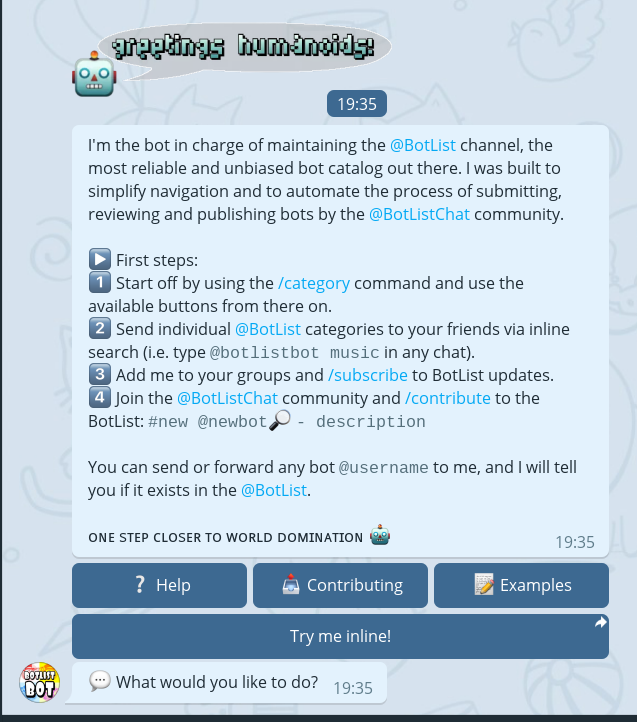
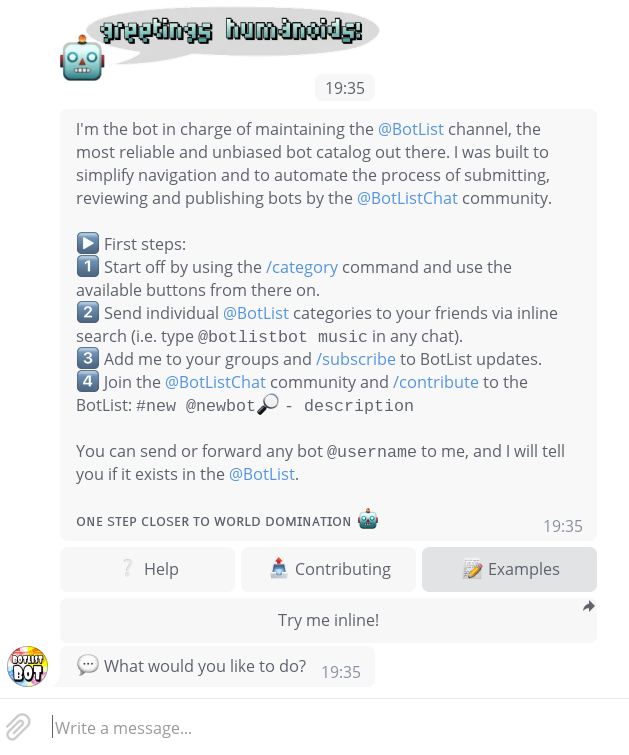
Images

diff --git a/README.rst b/README.rst
@@ -63,24 +63,29 @@ messages and asserting that its responses look about right:
         api_id=API_ID,
         api_hash=API_HASH,
         phone_number="+0123456789",
-        max_wait_response=15,  # maximum timeout for bot responses, seconds
-        min_wait_consecutive=2  # minimum wait time for more than one message
+        max_wait_response=15,  # maximum timeout for bot responses
+        min_wait_consecutive=2  # minimum time to wait for consecutive messages
     )
+
     client.start()  # This is based off a regular Pyrogram Client
     client.clear_chat()  # Let's start with a blank screen
 
-    # Send /start to the bot_under_test and "await" exactly three messages
+
+    # Send /start to the bot under test and "await" exactly three messages
     response = client.send_command_await("start", num_expected=3)
     assert response.num_messages == 3
 
 .. image:: https://github.com/JosXa/telegram-integration-test/blob/master/docs/images/start_botlistbot.png
-    :width: 200px
+    :width: 100
     :align: center
     :height: 100px
     :alt: Sending /start to @BotListBot
 
 .. code-block:: python
-    test
+    examples = response.click_inline_button(r'.*Examples')
+    print(examples.full_text)
+
+
 
 
 Credits
